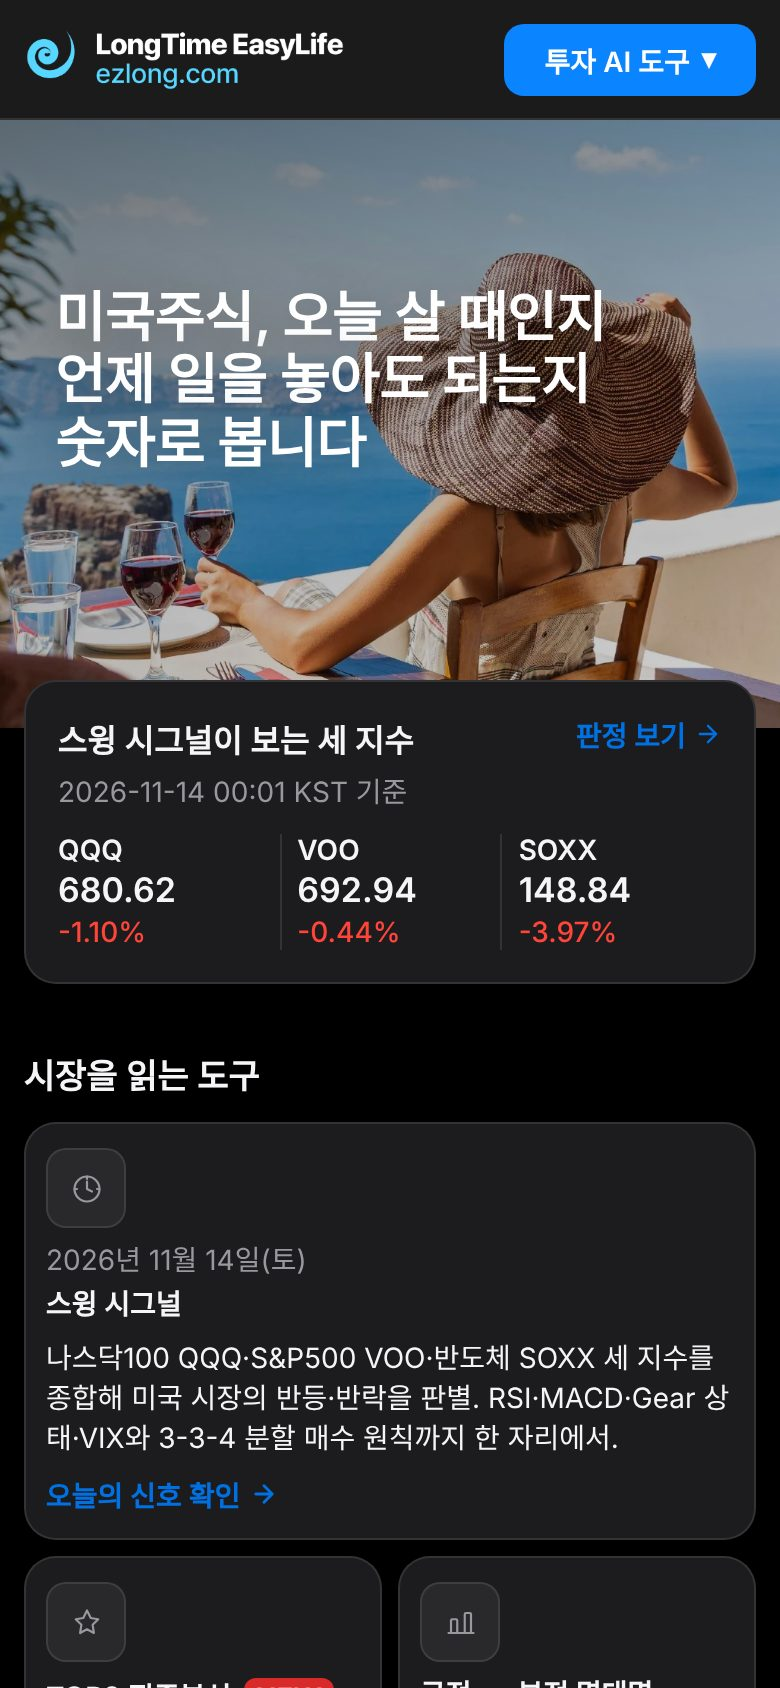
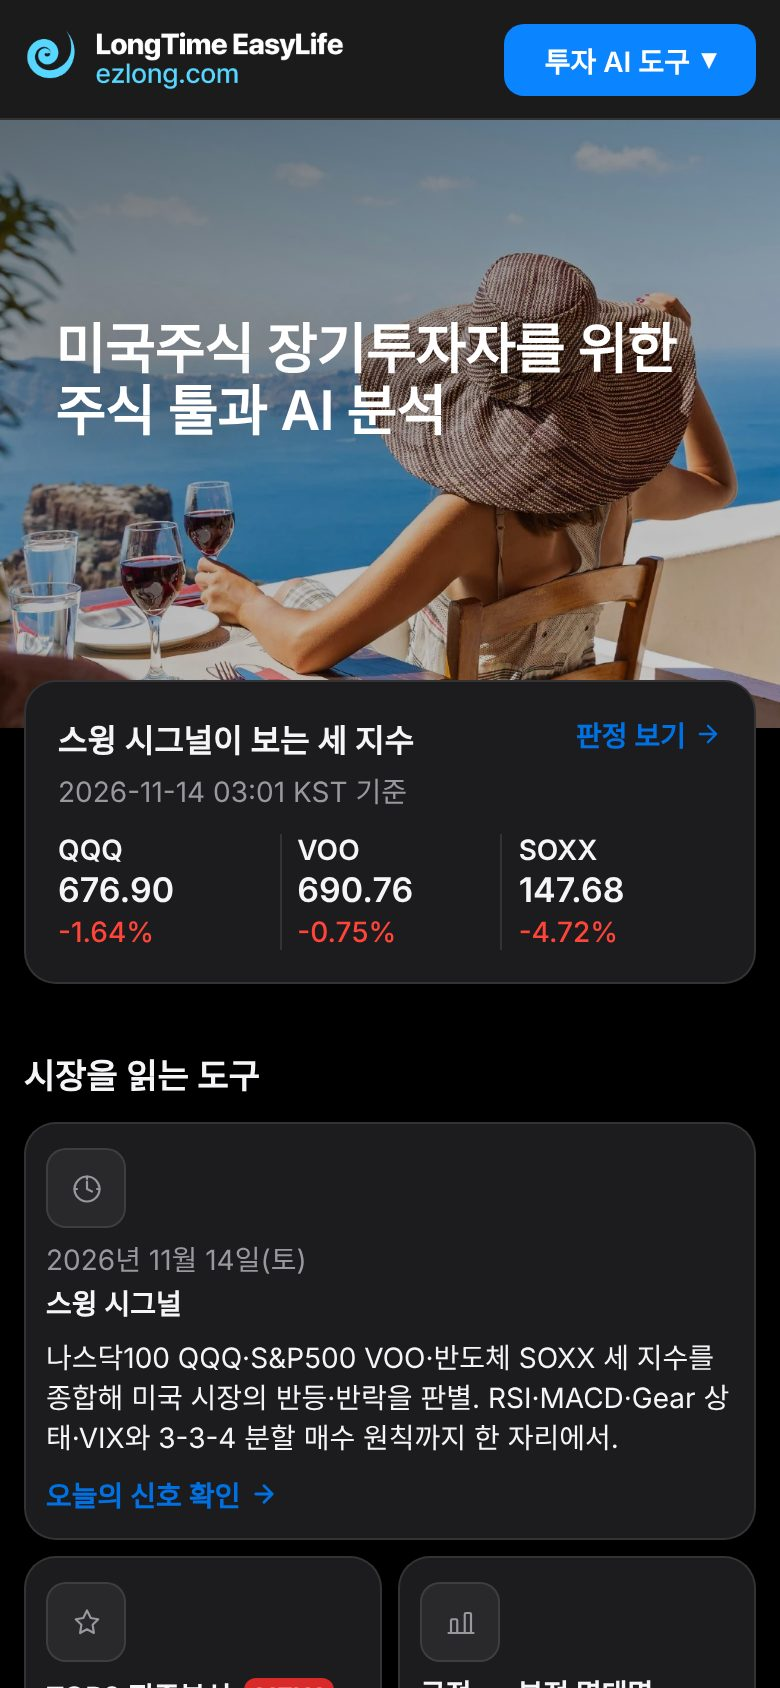
/app/ EZLONG 카드: 화면 넉 장(AI 포트폴리오 추가), 첫 화면 새 카피로 다시 찍음
Claude-Session: https://claude.ai/code/session_01KPkfvLXKXhEEKeEJqd3t1i

diff --git a/app/i18n.js b/app/i18n.js
@@ -93,6 +93,8 @@
       'Ferramentas gratuitas para quem quer manter ações dos EUA no longo prazo. O Swing Signal mostra em número se hoje é dia de comprar ou de esperar, as notícias recebem nota positiva ou negativa, e calculadoras de aportes, juros compostos e aposentadoria desenham sua conta daqui a 20 anos. Sem cadastro, no navegador (somente em coreano).',
       'Bộ công cụ đầu tư miễn phí cho người muốn nắm giữ cổ phiếu Mỹ lâu dài. Swing Signal cho biết bằng con số hôm nay nên mua hay nên chờ, tin tức được chấm điểm tích cực hay tiêu cực, và các máy tính tích lũy định kỳ, lãi kép, hưu trí phác họa tài khoản của bạn sau 20 năm. Không cần đăng ký, dùng ngay trên trình duyệt (chỉ tiếng Hàn).',
       'Strumenti gratuiti per chi vuole tenere azioni USA a lungo. Swing Signal dice con un numero se oggi è giorno di comprare o di aspettare, le notizie ricevono un punteggio positivo o negativo, e i calcolatori di PAC, interesse composto e pensione disegnano il tuo conto tra 20 anni. Senza registrazione, nel browser (solo in coreano).']],
+    ['AI 포트폴리오', ['AI portfolio', 'AIポートフォリオ', 'AI 投资组合', 'AI 投資組合', 'Cartera IA', 'Portefeuille IA', 'KI-Portfolio', 'Carteira IA', 'Danh mục AI', 'Portafoglio IA']],
+    ['AI 테마별 비중을 막대로 보여 주는 AI 포트폴리오 점검', ['AI portfolio check showing weights by AI theme as a bar', 'AIテーマ別の比重を帯で示すAIポートフォリオ点検', '以条形显示各 AI 主题权重的 AI 投资组合检查', '以長條顯示各 AI 主題權重的 AI 投資組合檢查', 'Revisión de cartera IA con el peso de cada tema en una barra', 'Bilan du portefeuille IA avec le poids de chaque thème en barre', 'KI-Portfolio-Check mit Gewichtung je KI-Thema als Balken', 'Revisão da carteira IA com o peso de cada tema em barra', 'Kiểm tra danh mục AI hiển thị tỷ trọng từng chủ đề bằng thanh', 'Verifica del portafoglio IA con il peso di ogni tema in una barra']],
     ['스윙 시그널', ['Swing Signal', 'スイングシグナル', '波段信号', '波段訊號', 'Swing Signal', 'Swing Signal', 'Swing Signal', 'Swing Signal', 'Swing Signal', 'Swing Signal']],
     ['긍정 vs 부정', ['Positive vs negative', '強気 vs 弱気', '利好 vs 利空', '利多 vs 利空', 'Positivo vs negativo', 'Positif vs négatif', 'Positiv vs. negativ', 'Positivo vs negativo', 'Tích cực vs tiêu cực', 'Positivo vs negativo']],
     ['사이트 열기', ['Open site', 'サイトを開く', '打开网站', '打開網站', 'Abrir sitio', 'Ouvrir le site', 'Website öffnen', 'Abrir site', 'Mở trang', 'Apri il sito']],

diff --git a/app/index.html b/app/index.html
@@ -358,7 +358,7 @@
     <!-- EZLONG 본체 홍보 (2026-11-14 오너: "ezlong.com/app 메인 상단에 ezlong.com 홍보").
          앱들을 만든 집을 맨 위에 세운다. 다른 카드보다 한 단 크게(.card.feature), 앱이 아니라
          사이트라서 "앱" 카드 문법에 억지로 맞추지 않고 '이 앱들을 만든 곳'으로 소개한다.
-         화면 석 장은 2026-11-14 로컬 렌더(390px · 다크)로 찍었다. -->
+         화면 넉 장은 2026-11-14 로컬 렌더(390px · 다크)로 찍었다. 다른 카드와 같이 넉 장. -->
     <article class="card feature" id="ezlong">
       <div class="head"><img src="icons/icon-ez.jpg" alt="" width="60" height="60"><div>
       <p class="kind">이 앱들을 만든 곳 · 미국 주식 투자 도구</p>
@@ -384,6 +384,12 @@
           <a class="plain" href="/market-scorecard.html" tabindex="-1">
           <img src="shots/ez-3.jpg" alt="뉴스의 긍정과 부정을 점수로 세운 화면" loading="lazy">
           <figcaption>긍정 vs 부정</figcaption>
+          </a>
+        </figure>
+        <figure>
+          <a class="plain" href="/model-portfolio.html" tabindex="-1">
+          <img src="shots/ez-4.jpg" alt="AI 테마별 비중을 막대로 보여 주는 AI 포트폴리오 점검" loading="lazy">
+          <figcaption>AI 포트폴리오</figcaption>
           </a>
         </figure>
       </div>
